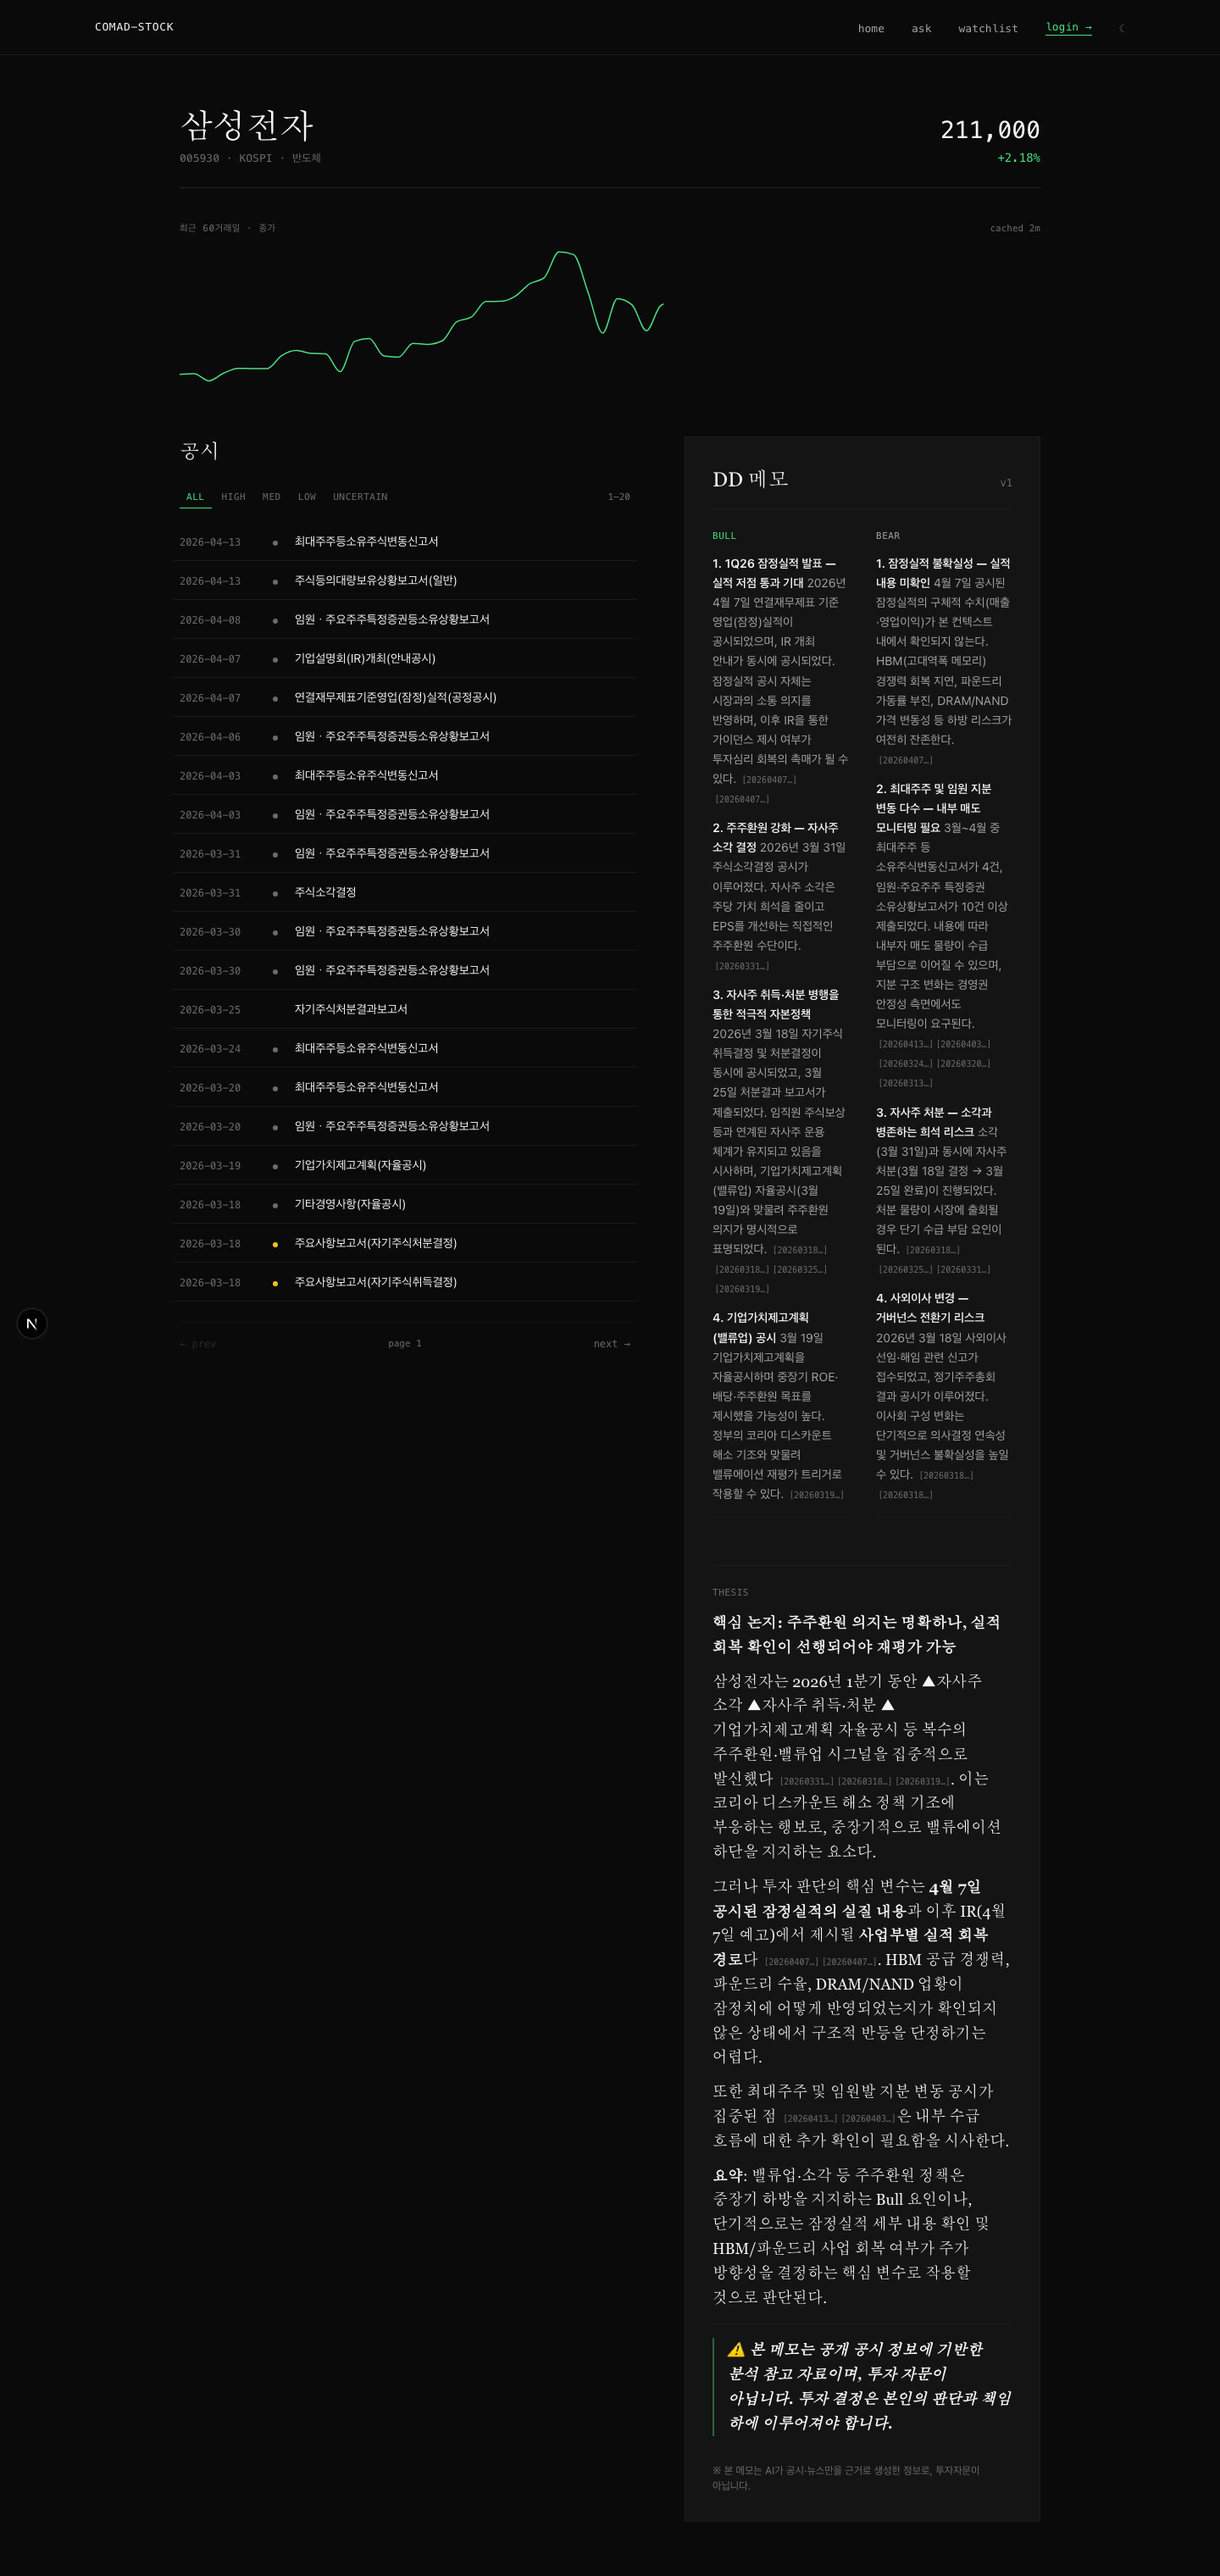
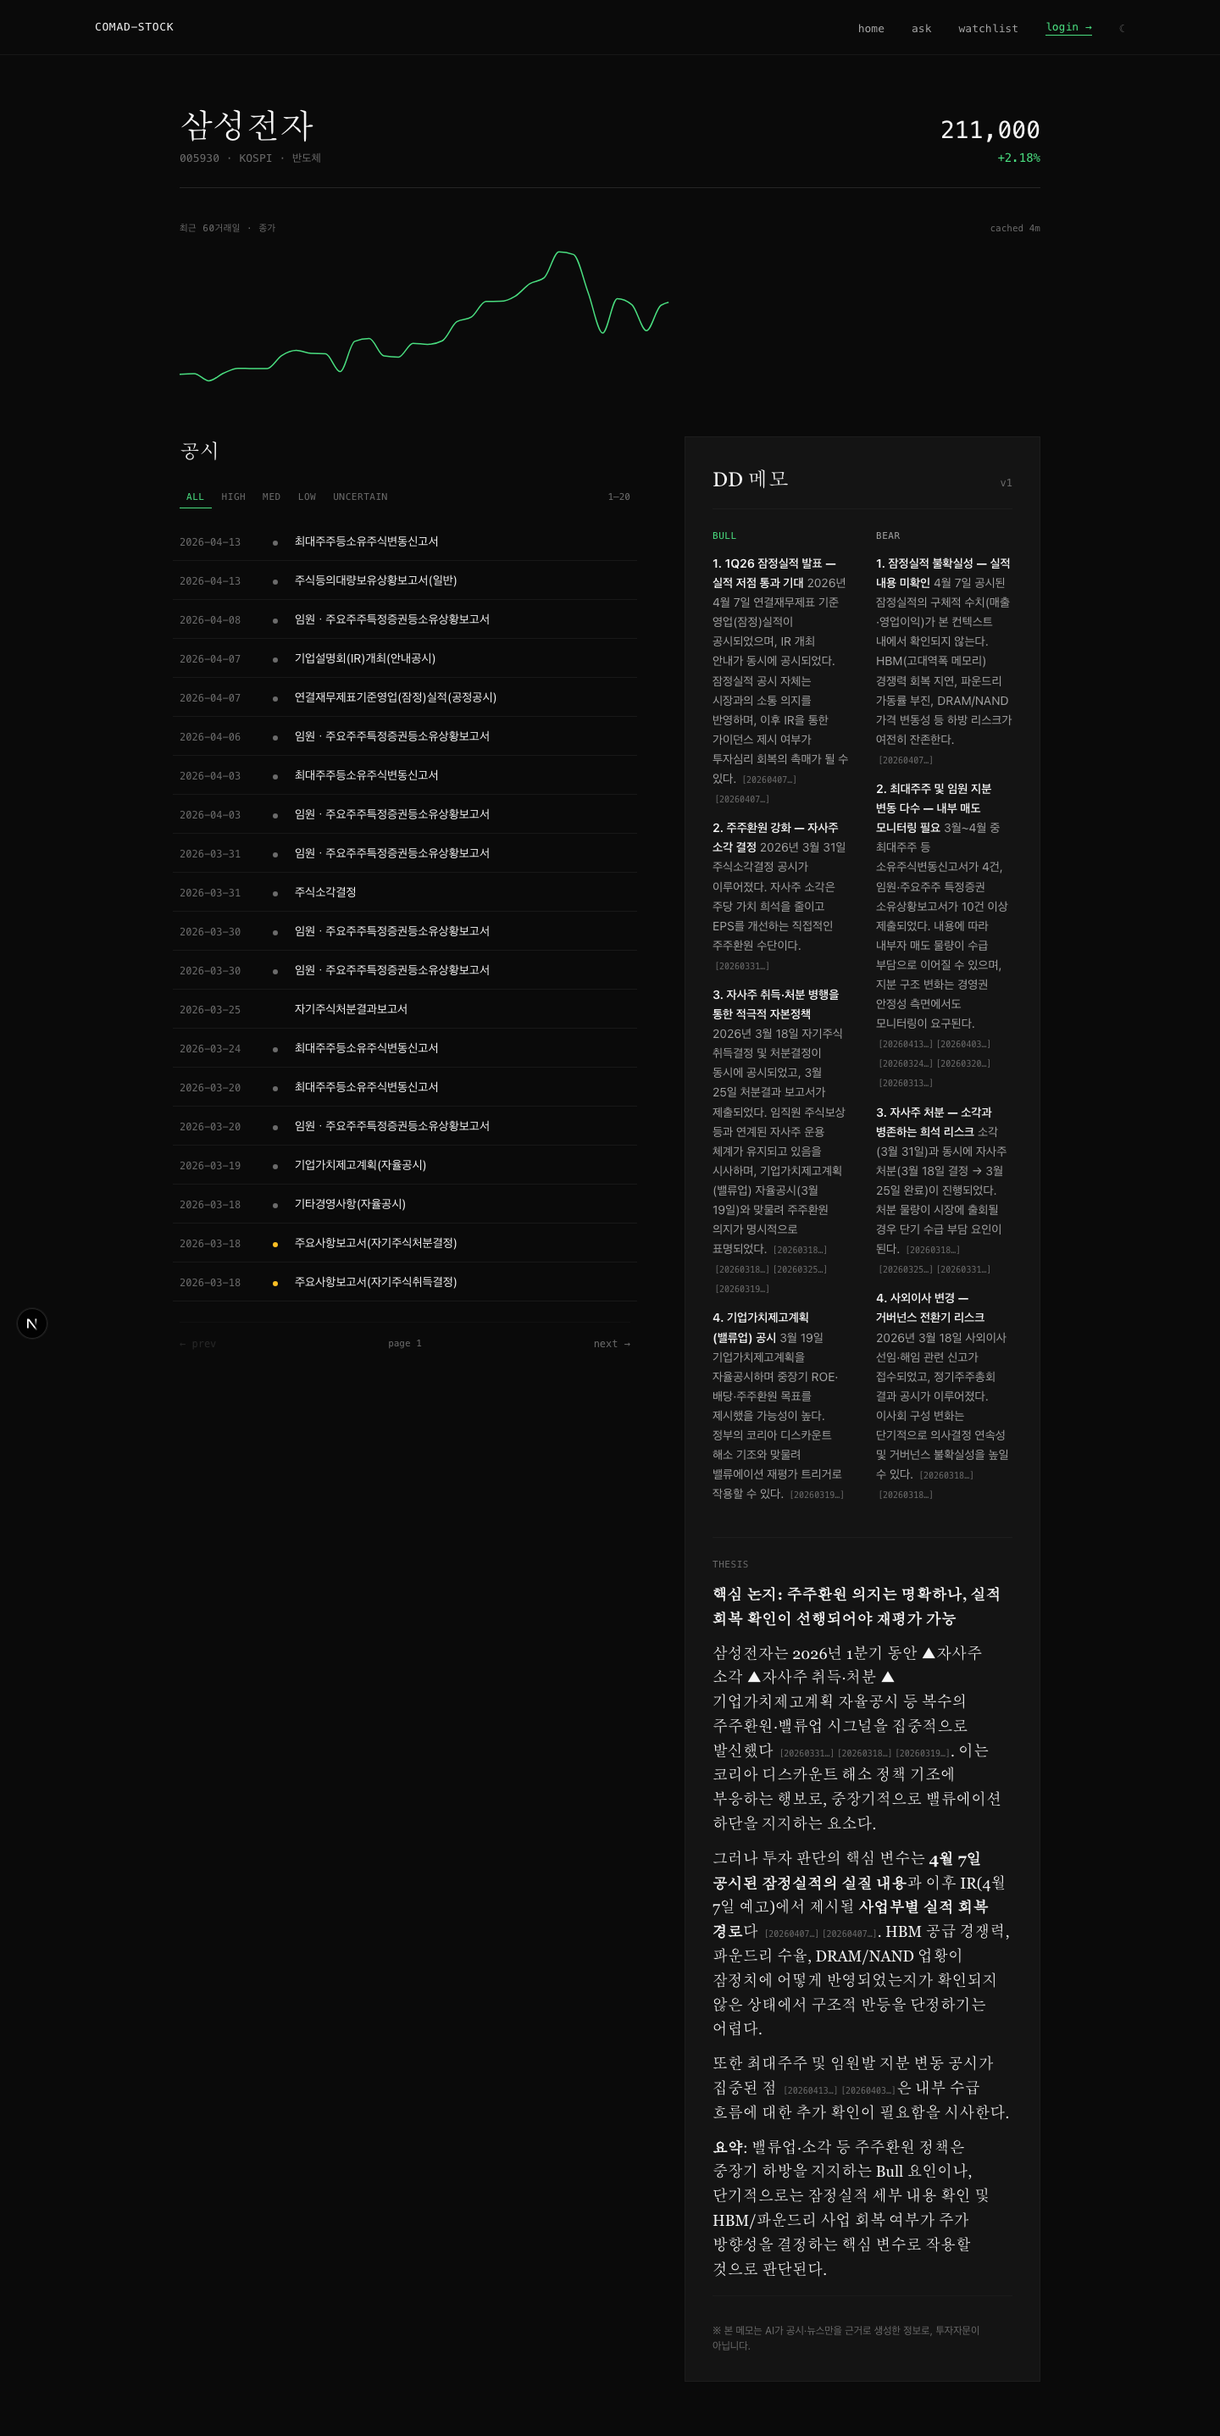
fix(memo): strip LLM disclaimer — dedupe with card footer
Claude inserts '⚠ 본 메모는 투자자문이 아닙니다' at end of thesis
(per system prompt), but DDMemoCard already shows standardized
footer. Caused duplicate warnings.

stripInlineDisclaimer(): regex scrub 3 patterns:
- blockquote '> ⚠...투자자문...'
- inline '⚠...투자자문...'
- bold '**⚠...**'
- trailing '---' separator left after removal

Applied to all 3 sections (BULL/BEAR/THESIS) since LLM may sprinkle it.

diff --git a/frontend/src/components/DDMemoCard.tsx b/frontend/src/components/DDMemoCard.tsx
@@ -1,6 +1,21 @@
 import type { DDMemo } from "@/types";
 import { Markdown } from "./Markdown";
 
+/** LLM이 본문 끝에 자동 삽입하는 '투자자문 아님' disclaimer를 제거.
+ *  카드 footer에 표준 문구가 이미 있어 중복이므로. */
+function stripInlineDisclaimer(text: string): string {
+  return text
+    // `> ⚠ ... 투자자문 ... `  (blockquote)
+    .replace(/>\s*[⚠⚠].*?투자자문.*?(?:\n\n|\n*$)/gs, "")
+    // `⚠ 본 메모는 투자자문 ... ` (inline)
+    .replace(/[⚠⚠].*?투자자문.*?(?:\n\n|\n*$)/gs, "")
+    // `**⚠ ... **`
+    .replace(/\*\*[⚠⚠].*?\*\*\s*/gs, "")
+    // 마지막 `---` 구분선만 남는 경우 제거
+    .replace(/\n*---\s*$/g, "")
+    .trim();
+}
+
 export function DDMemoCard({ memo }: { memo: DDMemo }) {
   return (
     <article className="bg-bg-2 border border-border/50 p-8">
@@ -10,13 +25,13 @@ export function DDMemoCard({ memo }: { memo: DDMemo }) {
       </header>
 
       <div className="grid grid-cols-1 md:grid-cols-2 gap-8 mb-10">
-        <SideBlock title="BULL" body={memo.bull} tone="accent" />
-        <SideBlock title="BEAR" body={memo.bear} tone="down" />
+        <SideBlock title="BULL" body={stripInlineDisclaimer(memo.bull)} tone="accent" />
+        <SideBlock title="BEAR" body={stripInlineDisclaimer(memo.bear)} tone="down" />
       </div>
 
       <section className="border-t border-border/50 pt-6">
         <h3 className="mono text-[11px] tracking-wider uppercase mb-3 text-fg-3">THESIS</h3>
-        <Markdown content={memo.thesis} tone="serif" />
+        <Markdown content={stripInlineDisclaimer(memo.thesis)} tone="serif" />
       </section>
 
       <p className="mt-8 text-[12px] text-fg-3">
